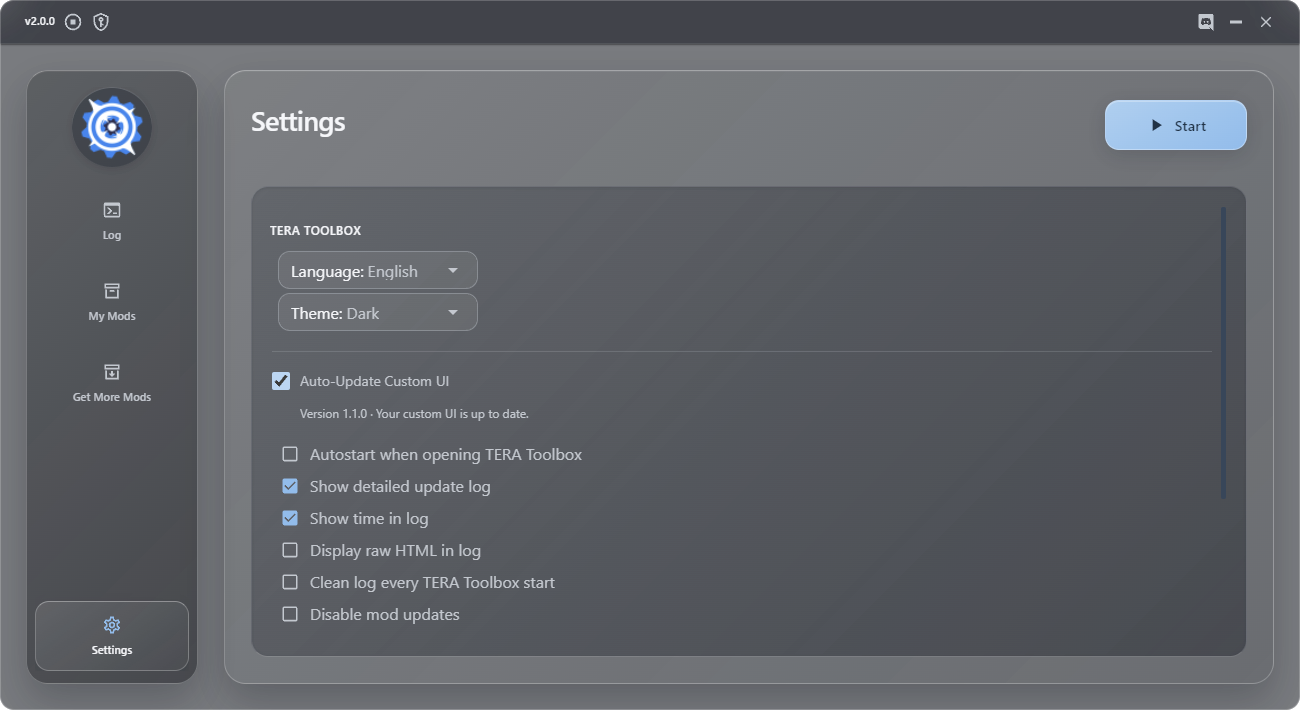
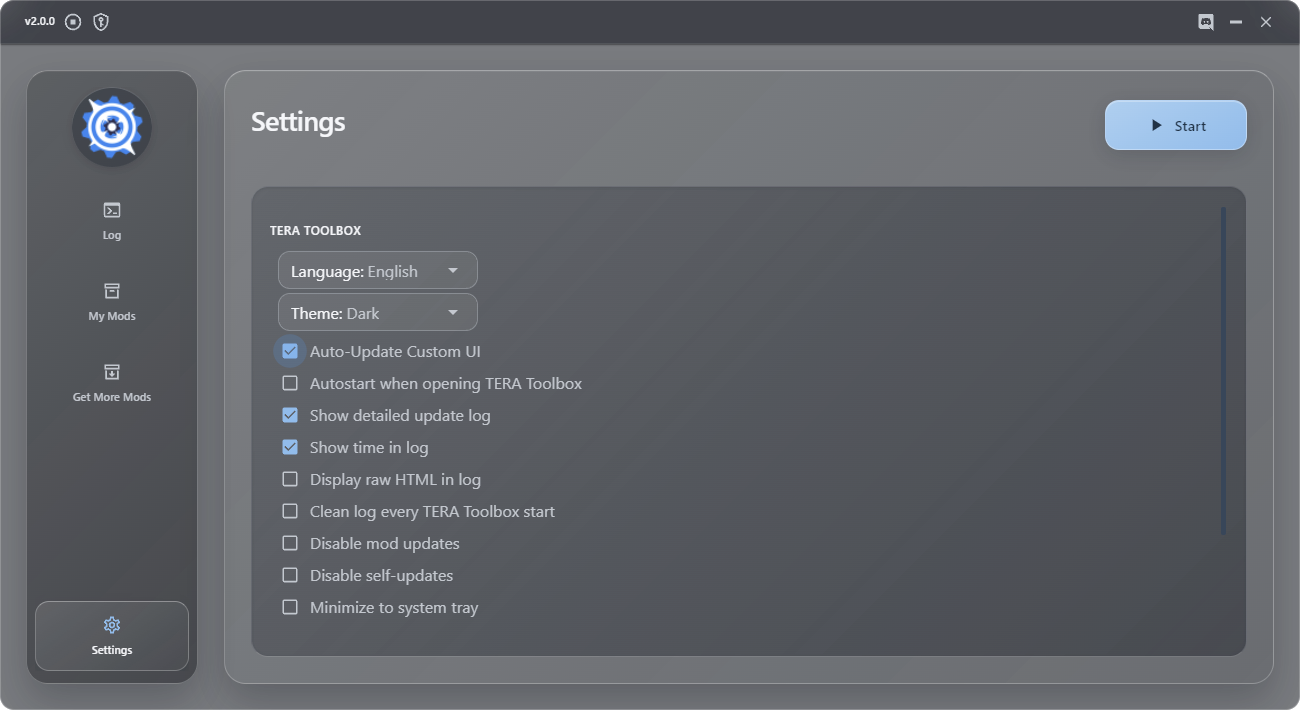
Match native settings checkbox and check UI updates only at startup

Changed region(s): [[0.1846, 0.4648, 0.4615, 0.8986]]

diff --git a/src/gui/js/custom-ui-settings.js b/src/gui/js/custom-ui-settings.js
@@ -1,51 +1,74 @@
-/* Independent opt-in theme updates; native Toolbox settings keep their own IPC. */
+/* Render the custom preference with Toolbox's own BoolOption component. */
 (() => {
     'use strict';
     const {ipcRenderer} = require('electron');
-    let state = {enabled:false,version:'',message:'Loading custom UI settings...'};
-    let pending = false;
-    function paint() {
-        const panel = document.querySelector('.v-window__container > .v-window-item:nth-child(4) > .container');
-        if (!panel) return;
-        let row = panel.querySelector('.tb-custom-ui-settings');
-        if (!row) {
-            row = document.createElement('section');
-            row.className = 'tb-custom-ui-settings';
-            const label = document.createElement('label');
-            const checkbox = document.createElement('input');
-            checkbox.type = 'checkbox';
-            checkbox.id = 'tb-custom-ui-autoupdate';
-            label.htmlFor = checkbox.id;
-            const title = document.createElement('span');
-            title.textContent = 'Auto-Update Custom UI';
-            label.append(checkbox,title);
-            const status = document.createElement('p');
-            status.className = 'tb-custom-ui-status';
-            status.setAttribute('aria-live','polite');
-            row.append(label,status);
-            const scroller = panel.querySelector('.scroller') || panel;
-            const themeSelect = scroller.querySelectorAll(':scope > .v-select')[1];
-            if (themeSelect) themeSelect.insertAdjacentElement('afterend',row);
-            else scroller.appendChild(row);
-            checkbox.addEventListener('change',() => {
-                pending = true;
-                checkbox.disabled = true;
-                ipcRenderer.send('custom-ui:set-auto-update',checkbox.checked);
-            });
+    const fs = require('fs');
+    const path = require('path');
+    const {fileURLToPath} = require('url');
+    let enabled = false;
+    let application;
+    try {
+        const root = path.resolve(path.dirname(fileURLToPath(location.href)),'../..');
+        enabled = JSON.parse(fs.readFileSync(path.join(root,'custom-ui-settings.json'),'utf8')).autoUpdate === true;
+    } catch (_) {}
+
+    function findApp(vm) {
+        if (!vm) return null;
+        if (vm.$options && vm.$options.name === 'App') return vm;
+        for (const child of vm.$children || []) {
+            const found = findApp(child);
+            if (found) return found;
         }
-        const checkbox = row.querySelector('input');
-        checkbox.checked = Boolean(state.enabled);
-        checkbox.disabled = pending;
-        const text = (state.version ? 'Version '+state.version+' · ' : '') + state.message;
-        const status = row.querySelector('.tb-custom-ui-status');
-        if (status.textContent !== text) status.textContent = text;
+        return null;
     }
-    ipcRenderer.on('custom-ui:state',(_,next) => {
-        state = next;
-        pending = false;
-        paint();
+    function change({val}) {
+        enabled = Boolean(val);
+        ipcRenderer.send('custom-ui:set-auto-update',enabled);
+    }
+    function insertOption(node,vm) {
+        if (!node || typeof node !== 'object') return;
+        const children = node.componentOptions ? node.componentOptions.children : node.children;
+        if (!children) return;
+        const index = children.findIndex(child => child && child.componentOptions && child.componentOptions.propsData && child.componentOptions.propsData.field === 'autostart');
+        if (index !== -1) {
+            if (!children.some(child => child && child.key === 'toolbox-custom-ui-autoupdate')) {
+                children.splice(index,0,vm.$createElement('BoolOption',{
+                    key:'toolbox-custom-ui-autoupdate',
+                    ref:'toolboxCustomUIAutoUpdate',
+                    staticClass:'tb-custom-ui-checkbox',
+                    attrs:{id:'tb-custom-ui-autoupdate',text:'Auto-Update Custom UI',field:'custom-ui-auto-update',startValue:enabled},
+                    on:{update:change}
+                }));
+            }
+            return;
+        }
+        for (const child of children) insertOption(child,vm);
+    }
+    function mount() {
+        const element = document.getElementById('app');
+        application = element && findApp(element.__vue__ && (element.__vue__.$root || element.__vue__));
+        if (!application) return false;
+        if (!application.__toolboxCustomUISettings) {
+            const render = application.$options.render;
+            application.$options.render = function(...args) {
+                const tree = render.apply(this,args);
+                insertOption(tree,this);
+                return tree;
+            };
+            application.__toolboxCustomUISettings = true;
+            application.$forceUpdate();
+        }
+        return true;
+    }
+    ipcRenderer.on('custom-ui:state',(_,state) => {
+        enabled = state.enabled === true;
+        if (!application) return;
+        const option = application.$refs.toolboxCustomUIAutoUpdate;
+        if (option && option.val !== enabled) option.val = enabled;
     });
-    new MutationObserver(paint).observe(document.getElementById('app'),{childList:true,subtree:true});
-    paint();
+    if (!mount()) {
+        const observer = new MutationObserver(() => { if (mount()) observer.disconnect(); });
+        observer.observe(document.body,{childList:true,subtree:true});
+    }
     ipcRenderer.send('custom-ui:get-state');
 })();

diff --git a/src/runtime/custom-ui-updater.js b/src/runtime/custom-ui-updater.js
@@ -6,7 +6,6 @@ const https = require('https');
 const crypto = require('crypto');
 const REPOSITORY = 'pyureee/toolbox-custom-ui';
 const MANIFEST_URL = 'https://raw.githubusercontent.com/'+REPOSITORY+'/main/updates/latest.json';
-const INTERVAL = 6 * 60 * 60 * 1000;
 const hash = bytes => crypto.createHash('sha256').update(bytes).digest('hex');
 
 function fetchBytes(url,{maxBytes=4*1024*1024,signal}={}) {
@@ -45,10 +44,10 @@ function validateManifest(manifest) {
     return manifest;
 }
 class CustomUIUpdater {
-    constructor(root,{fetch=fetchBytes,notify=()=>{},interval=INTERVAL,install}={}) {
-        this.root=fs.realpathSync(root);this.fetch=fetch;this.notify=notify;this.interval=interval;this.install=install;
-        this.settingsFile=path.join(this.root,'custom-ui-settings.json');this.timer=null;this.running=null;this.abort=null;this.disposed=false;
-        this.state={enabled:false,version:'1.1.0',message:'Automatic custom UI updates are off.'};
+    constructor(root,{fetch=fetchBytes,notify=()=>{},install}={}) {
+        this.root=fs.realpathSync(root);this.fetch=fetch;this.notify=notify;this.install=install;
+        this.settingsFile=path.join(this.root,'custom-ui-settings.json');this.started=false;this.running=null;this.abort=null;this.disposed=false;
+        this.state={enabled:false,version:'1.1.1',message:'Automatic custom UI updates are off.'};
         this.refresh();
     }
     readSettings() {return fs.existsSync(this.settingsFile)?JSON.parse(fs.readFileSync(this.settingsFile,'utf8')):{autoUpdate:false};}
@@ -59,9 +58,9 @@ class CustomUIUpdater {
     }
     emit(message) {if(message)this.state.message=message;if(!this.disposed)this.notify({...this.state});}
     start() {
-        if(this.disposed||!this.state.enabled||this.timer)return;
-        this.timer=setInterval(()=>this.check(),this.interval);if(this.timer.unref)this.timer.unref();
-        this.check();
+        if(this.disposed||this.started)return;
+        this.started=true;
+        if(this.state.enabled)return this.check();
     }
     setEnabled(enabled) {
         if(typeof enabled!=='boolean')throw new Error('The custom UI update option must be a checkbox value.');
@@ -69,8 +68,8 @@ class CustomUIUpdater {
         const temp=this.settingsFile+'.tmp-'+crypto.randomBytes(4).toString('hex');
         try {fs.writeFileSync(temp,JSON.stringify({...settings,autoUpdate:enabled},null,2)+'\n');fs.renameSync(temp,this.settingsFile);} finally {if(fs.existsSync(temp))fs.unlinkSync(temp);}
         this.state.enabled=enabled;
-        if(!enabled) {if(this.timer)clearInterval(this.timer);this.timer=null;if(this.abort)this.abort.abort();this.emit('Automatic custom UI updates are off.');}
-        else {this.emit('Automatic custom UI updates are on.');this.start();}
+        if(!enabled) {if(this.abort)this.abort.abort();this.emit('Automatic custom UI updates are off.');}
+        else this.emit('Custom UI updates will be checked next time Toolbox starts.');
         return {...this.state};
     }
     check() {
@@ -118,7 +117,7 @@ class CustomUIUpdater {
             }
         }
     }
-    dispose() {this.disposed=true;if(this.timer)clearInterval(this.timer);this.timer=null;if(this.abort)this.abort.abort();}
+    dispose() {this.disposed=true;if(this.abort)this.abort.abort();}
 }
 function attach(window,ipcMain,options={}) {
     if(window.__toolboxCustomUIUpdater)return window.__toolboxCustomUIUpdater;

diff --git a/src/gui/css/glass.css b/src/gui/css/glass.css
@@ -267,12 +267,6 @@ body.toolbox-modern .v-input--is-focused .v-icon,
 body.toolbox-modern .v-input--is-label-active .v-input--selection-controls__input .v-icon { color: var(--tb-accent) !important; }
 
 /* Popup menus and dialogs use solid glass-tinted surfaces for reliable readability. */
-.tb-custom-ui-settings { margin: 20px 2px 8px; padding-top: 18px; border-top: 1px solid var(--tb-border-soft); }
-.tb-custom-ui-settings label { display: inline-flex; align-items: center; gap: 10px; color: var(--tb-text-muted); font-size: 14px; cursor: pointer; }
-.tb-custom-ui-settings input { width: 18px; height: 18px; margin: 0; accent-color: var(--tb-accent); cursor: pointer; }
-.tb-custom-ui-settings input:focus-visible { outline: 2px solid var(--tb-accent); outline-offset: 3px; }
-.tb-custom-ui-status { margin: 8px 0 0 28px; color: var(--tb-text-muted); font-size: 12px; line-height: 1.5; }
-
 body.toolbox-modern .v-menu__content, body.toolbox-modern .v-list,
 body.toolbox-modern .v-card { background: var(--tb-surface-raised) !important; color: var(--tb-text) !important; border-color: var(--tb-border); }
 body.toolbox-modern .v-dialog { border-color: var(--tb-border); border-radius: 18px !important; }

diff --git a/docs/VALIDATION.md b/docs/VALIDATION.md
@@ -5,7 +5,7 @@ Validated on Windows with the Toolbox-bundled Electron 16.0.2 / Node 16.9.1 runt
 | Check | Result |
 | --- | --- |
 | Project installer checks | 14 passed |
-| Separate GitHub updater checks | 10 passed |
+| Separate GitHub updater checks | 11 passed |
 | EXE installer payload and folder-selection UI | Verified |
 | EXE install on clean and already-themed copies | Passed |
 | EXE restore after installations and automatic updates | Both copies returned to every original file hash |
@@ -16,6 +16,8 @@ Validated on Windows with the Toolbox-bundled Electron 16.0.2 / Node 16.9.1 runt
 | PowerShell restore of both test copies | Every original file hash restored; new theme files removed |
 | Native main renderer | 43 checks and 18 mouse hit tests passed |
 | Version 1.1.0 main renderer and settings checkbox | 101 checks and 20 mouse hit tests passed |
+| Version 1.1.1 native checkbox and main renderer | 104 checks and 20 mouse hit tests passed |
+| First-frame checkbox with an enabled saved preference | 6 checks passed, including a deliberately delayed settings reply |
 | Version 1.0.1 rounded window corners | 48 pixel checks passed across dark/light UI states and 1300x710, 1366x768, and 1600x900 windows |
 | Actual self-updater operation planning | Protected UI paths skipped; ordinary core update retained |
 | Config and mod sentinel files | Unchanged |
@@ -25,6 +27,8 @@ The renderer check exercised Start/Stop states through isolated fixture IPC, log
 The corner fix clips the full painted document to the existing 14 px border radius. Native Electron screenshots confirmed zero alpha outside all four curves while the adjacent surface remained visible. Captures waited for popup fade transitions to finish. The existing 43 renderer checks and 18 mouse hit tests also passed with this fix.
 
 The custom updater was tested with pinned-commit download fixtures, corrupt content, network failures, concurrent requests, cancellation while disabling the checkbox, saved preferences, IPC sender ownership, and cleanup when the window closes. A complete newer-version fixture exercised the same downloaded installer and backup transaction used by automatic updates. The EXE exercised the embedded package through Windows PowerShell on separate Toolbox copies.
+
+Version 1.1.1 reuses Toolbox's native BoolOption render component. Pixel geometry checks confirmed matching icon position, icon dimensions, label position, and font size. The checkbox appeared with the other settings on their first visible frame, retained its saved enabled state before an intentionally delayed IPC reply, and rendered without status/version text. Enabling waits until the next launch; one startup check runs without any periodic timer.
 
 The integration checks used separate local test copies. They did not run a real game proxy or install an actual network update. The Windows scripts were exercised through Windows PowerShell, including the bundled-runtime launch and generated idle logo.
 

diff --git a/README.md b/README.md
@@ -4,7 +4,7 @@ A smoked-glass theme for **TERA Toolbox on Windows**, with a translucent gray ba
 
 ![Toolbox glass interface](docs/images/main.png)
 
-Version 1.1.0 includes an EXE installer with a folder picker and an optional **Auto-Update Custom UI** checkbox in Toolbox Settings. The outer window, translucent surface, and title bar share rounded corners.
+Version 1.1.1 includes an EXE installer with a folder picker and a native **Auto-Update Custom UI** checkbox in Toolbox Settings. The outer window, translucent surface, and title bar share rounded corners.
 
 ![Glass startup splash](docs/images/splash.png)
 
@@ -74,11 +74,11 @@ Open **Settings** in Toolbox and check **Auto-Update Custom UI** to enable updat
 
 ![Auto-Update Custom UI in Settings](docs/images/settings.png)
 
-When enabled, the custom updater checks at startup, immediately after enabling the checkbox, and every six hours while Toolbox is running. It reads [`updates/latest.json`](updates/latest.json), downloads the newer version from the exact Git commit recorded there, verifies each file's size and SHA-256, and backs up changed files before installing. A failed download keeps the installed UI. It does not restart Toolbox or interrupt the game proxy; reopen Toolbox to load a successfully installed update.
+When enabled, the custom updater checks once when Toolbox starts. Enabling the checkbox takes effect on the next launch; there are no timed background checks. It reads [`updates/latest.json`](updates/latest.json), downloads the newer version from the exact Git commit recorded there, verifies each file's size and SHA-256, and backs up changed files before installing. A failed download keeps the installed UI. It does not restart Toolbox or interrupt the game proxy; reopen Toolbox to load a successfully installed update.
 
 The choice is saved in `custom-ui-settings.json` in your Toolbox main folder and survives reinstalling the theme. Unchecking it stops future checks and cancels an in-progress download. Core Toolbox updates still skip custom UI files; this separate updater is responsible for theme updates.
 
-The status below the checkbox shows the installed version and update result. You can always update manually by running a newer EXE.
+You can also update manually by running a newer EXE.
 
 ## Compatibility and appearance
 
